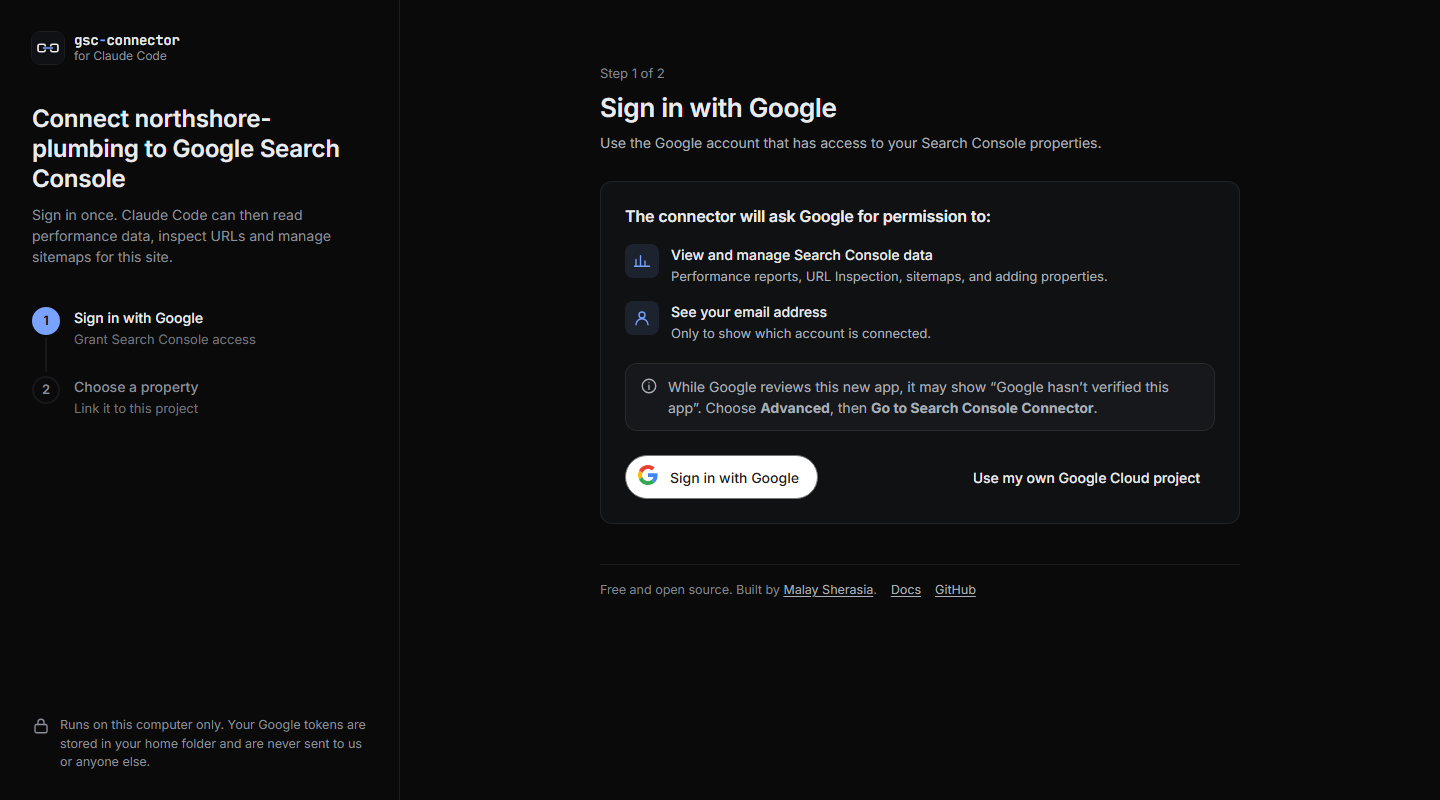
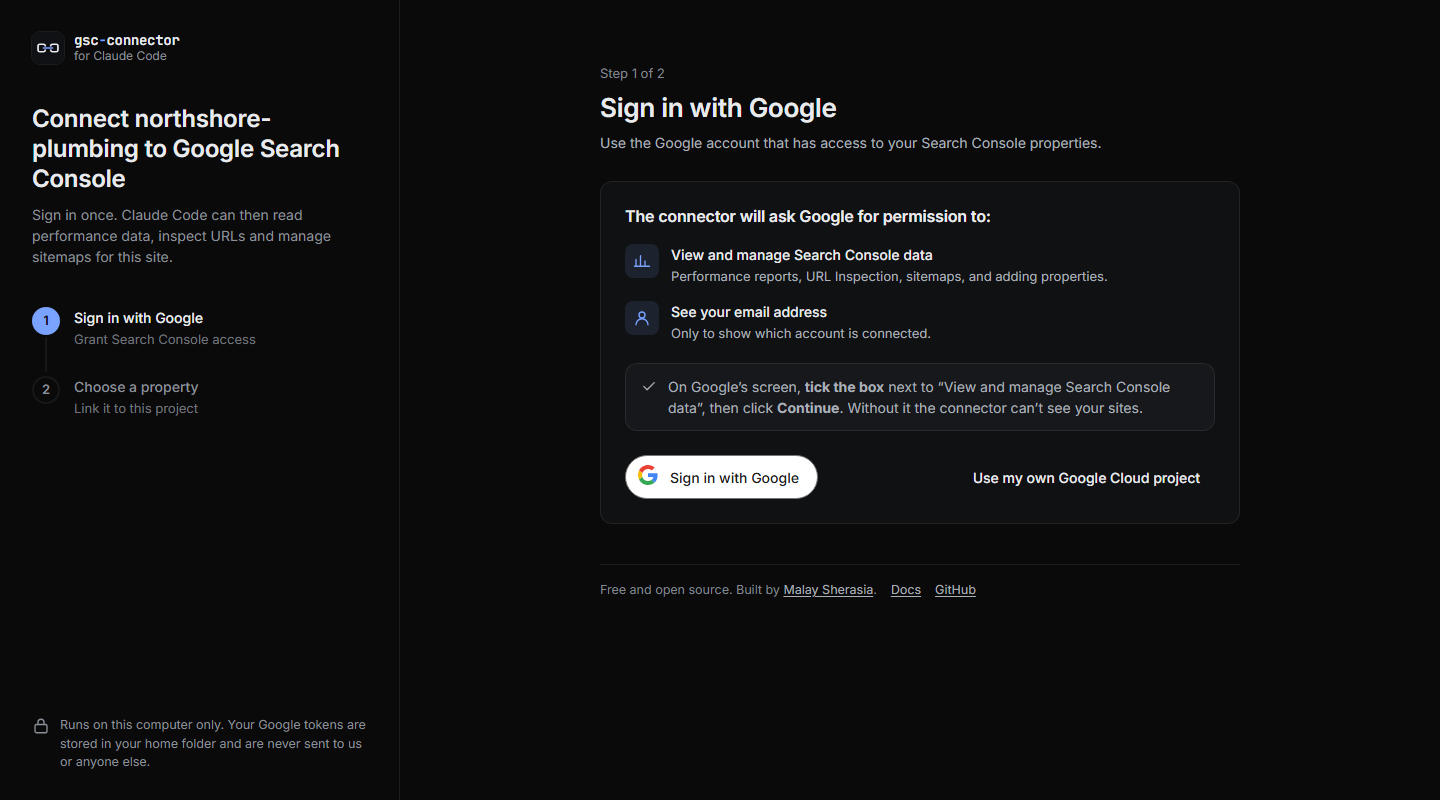
README: tick the Search Console box, Google's sign-in clip, current Connect screenshot
The Connect screenshot still showed the removed 'unverified app' note.

Changed region(s): [[0.4375, 0.4688, 0.8125, 0.5312]]

diff --git a/README.md b/README.md
@@ -66,12 +66,16 @@ To run the latest code straight from GitHub instead of npm, use `npx -y github:m
 Claude calls `gsc_connect`, which opens a page in your browser:
 
 1. a one-time question about anonymous usage metrics (yes or no, your choice),
-2. **Sign in with Google** with the account that has your Search Console access,
+2. **Sign in with Google** with the account that has your Search Console access. On Google's second screen, **tick the box** next to "View and manage Search Console data for your verified sites" before you click Continue; Google leaves it unticked,
 3. pick which Search Console property belongs to this project.
 
-![Connect page: Sign in with Google, then choose the property for this project](docs/screenshots/sign-in-with-google.png)
+![Connect page: Sign in with Google, with a reminder to tick the Search Console box on Google's screen](docs/screenshots/sign-in-with-google.png)
 
-That's it. Google has verified the app's branding and it only asks for non-sensitive permissions, so there's no "unverified app" screen to click through.
+What Google shows you (account details hidden):
+
+![Google's sign-in for Search Console Connector: choose your account and click Continue, then tick the Search Console box and click Continue](docs/google-signin.gif)
+
+That's it. Google has verified the app's branding and it only asks for non-sensitive permissions, so there's no "unverified app" screen to click through. If you continue without ticking the box, the connector keeps your previous sign-in and asks you to try again.
 
 **3. Ask away:**
 
